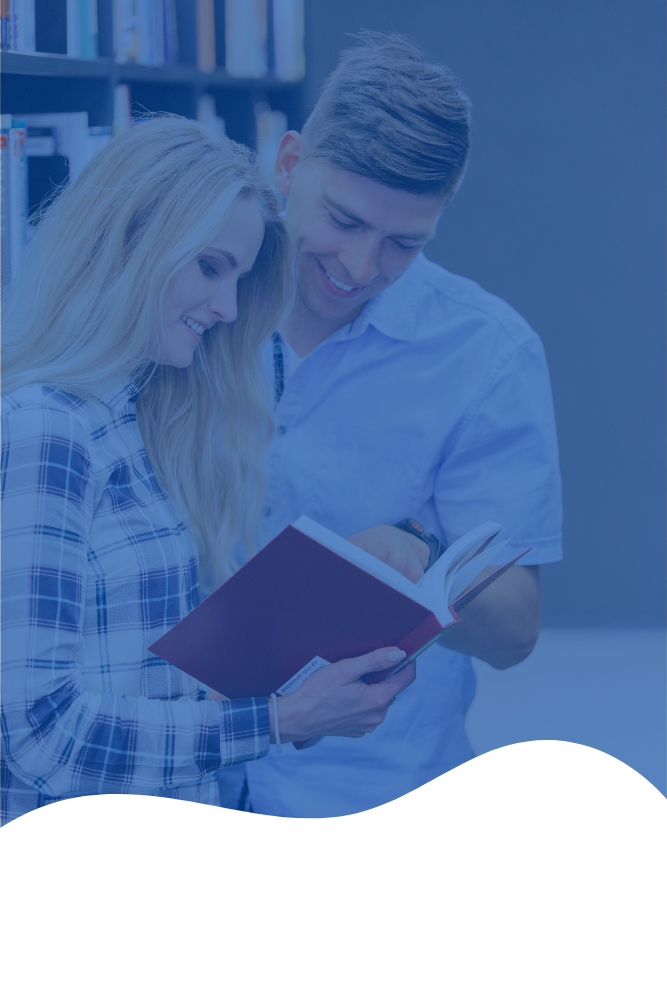
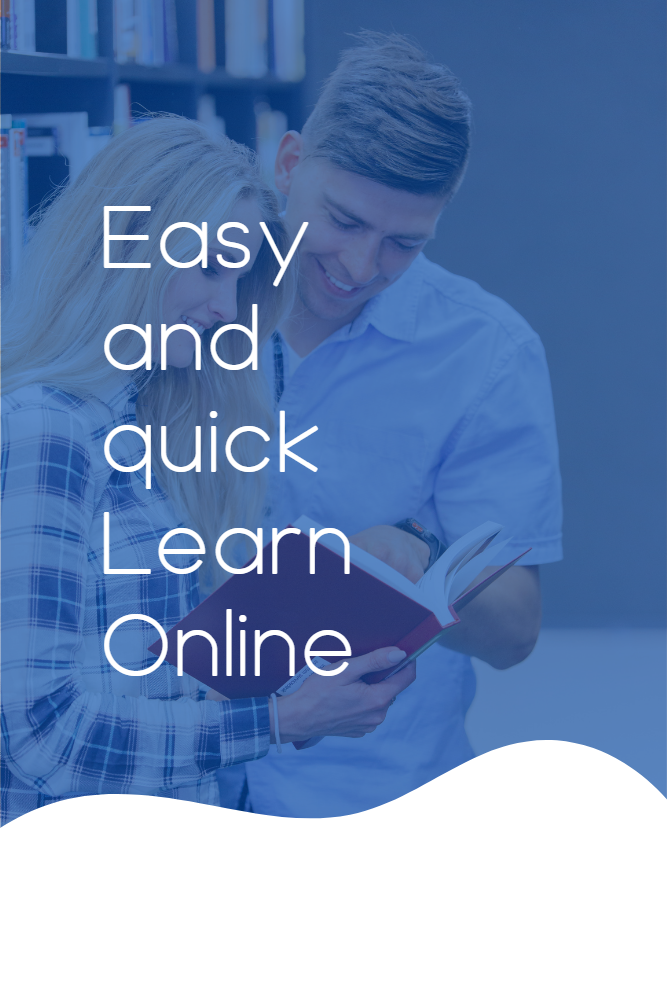
welcome page

diff --git a/screen/WelcomeScreen.js b/screen/WelcomeScreen.js
@@ -1,53 +1,49 @@
-import { StyleSheet, Text, View, TouchableOpacity, Image, Button } from 'react-native';
+import React from 'react';
+import { View, Text, TouchableOpacity, Image, StyleSheet,TouchableHighlight, Button, ImageBackground } from 'react-native';
+import { widthPercentageToDP as wp, heightPercentageToDP as hp } from 'react-native-responsive-screen';
 
 
-function WelcomeScreen() {
+const WelcomeScreen = () => {
   return (
-    <View style={styles.container}>
-      <View style={styles.containerImage}>
-      <Image
-      source={require('../assets/WelcomePageImage.png')} // Arka plan resmi
-      style={{ width: '100%', height: '100%' , position: 'absolute', top:0}}
-    />
-      </View>
-    
-     <TouchableOpacity style={styles.button}>
-        <Text style={styles.buttonText}>Start</Text>
-      </TouchableOpacity>
-  </View>
-  )
-}
+    <ImageBackground source={require('../assets/WelcomePageImage.png')} style={{ width: '100%', height: '100%' ,top:0,}} >
 
-export default WelcomeScreen;
+    <View style={styles.container}>
+           <TouchableHighlight 
+                style ={{
+                    height: 40,
+                    width:'50%',
+                    borderRadius:20,
+                    marginLeft :50,
+                    marginRight:50,
+                    marginTop :100,
+                    marginBottom:20
+                }}>
+        <Button title="Start" />
+        </TouchableHighlight>
+        
+  </View>
+  </ImageBackground>
+  );
+};
 
 const styles = StyleSheet.create({
   container: {
     flex: 1,
-    width:'100%',
-    height:'100%',
     justifyContent: 'center',
     alignItems: 'center',
-  },
-  containerImage: {
-    flex: 1,
-    width:'100%',
+    marginTop: hp('70%'), // Sayfanın üstündeki boşluk
   },
   backgroundImage: {
-    position: 'absolute',
+    flex: 1,
     resizeMode: 'cover',
-    
   },
-  // button: {
-  //   backgroundColor: 'blue',
-  //   paddingVertical: 10,
-  //   paddingHorizontal: 20,
-  //   borderRadius: 20,
-  //   marginTop :'100%' ,
-  //   alignItems: 'flex-end',
-  // },
-  buttonText: {
-    color: '#000',
-    fontSize: 18,
-    
+  title: {
+    fontSize: hp('4%'),
+    marginBottom: hp('3%'),
+    color: 'white',
   },
+  
 });
+
+
+export default WelcomeScreen;

diff --git a/App.js b/App.js
@@ -2,13 +2,14 @@ import { StatusBar } from 'expo-status-bar';
 import { Button, StyleSheet, Text, View } from 'react-native';
 import RegisterScreen from './screen/RegisterScreen';
 import LoginScreen from './screen/LoginScreen';
+import WelcomeScreen from './screen/WelcomeScreen';
 
 
 
 export default function App() {
   return (
     <View >
-      <LoginScreen />
+      <WelcomeScreen />
     </View>
   );
 }
